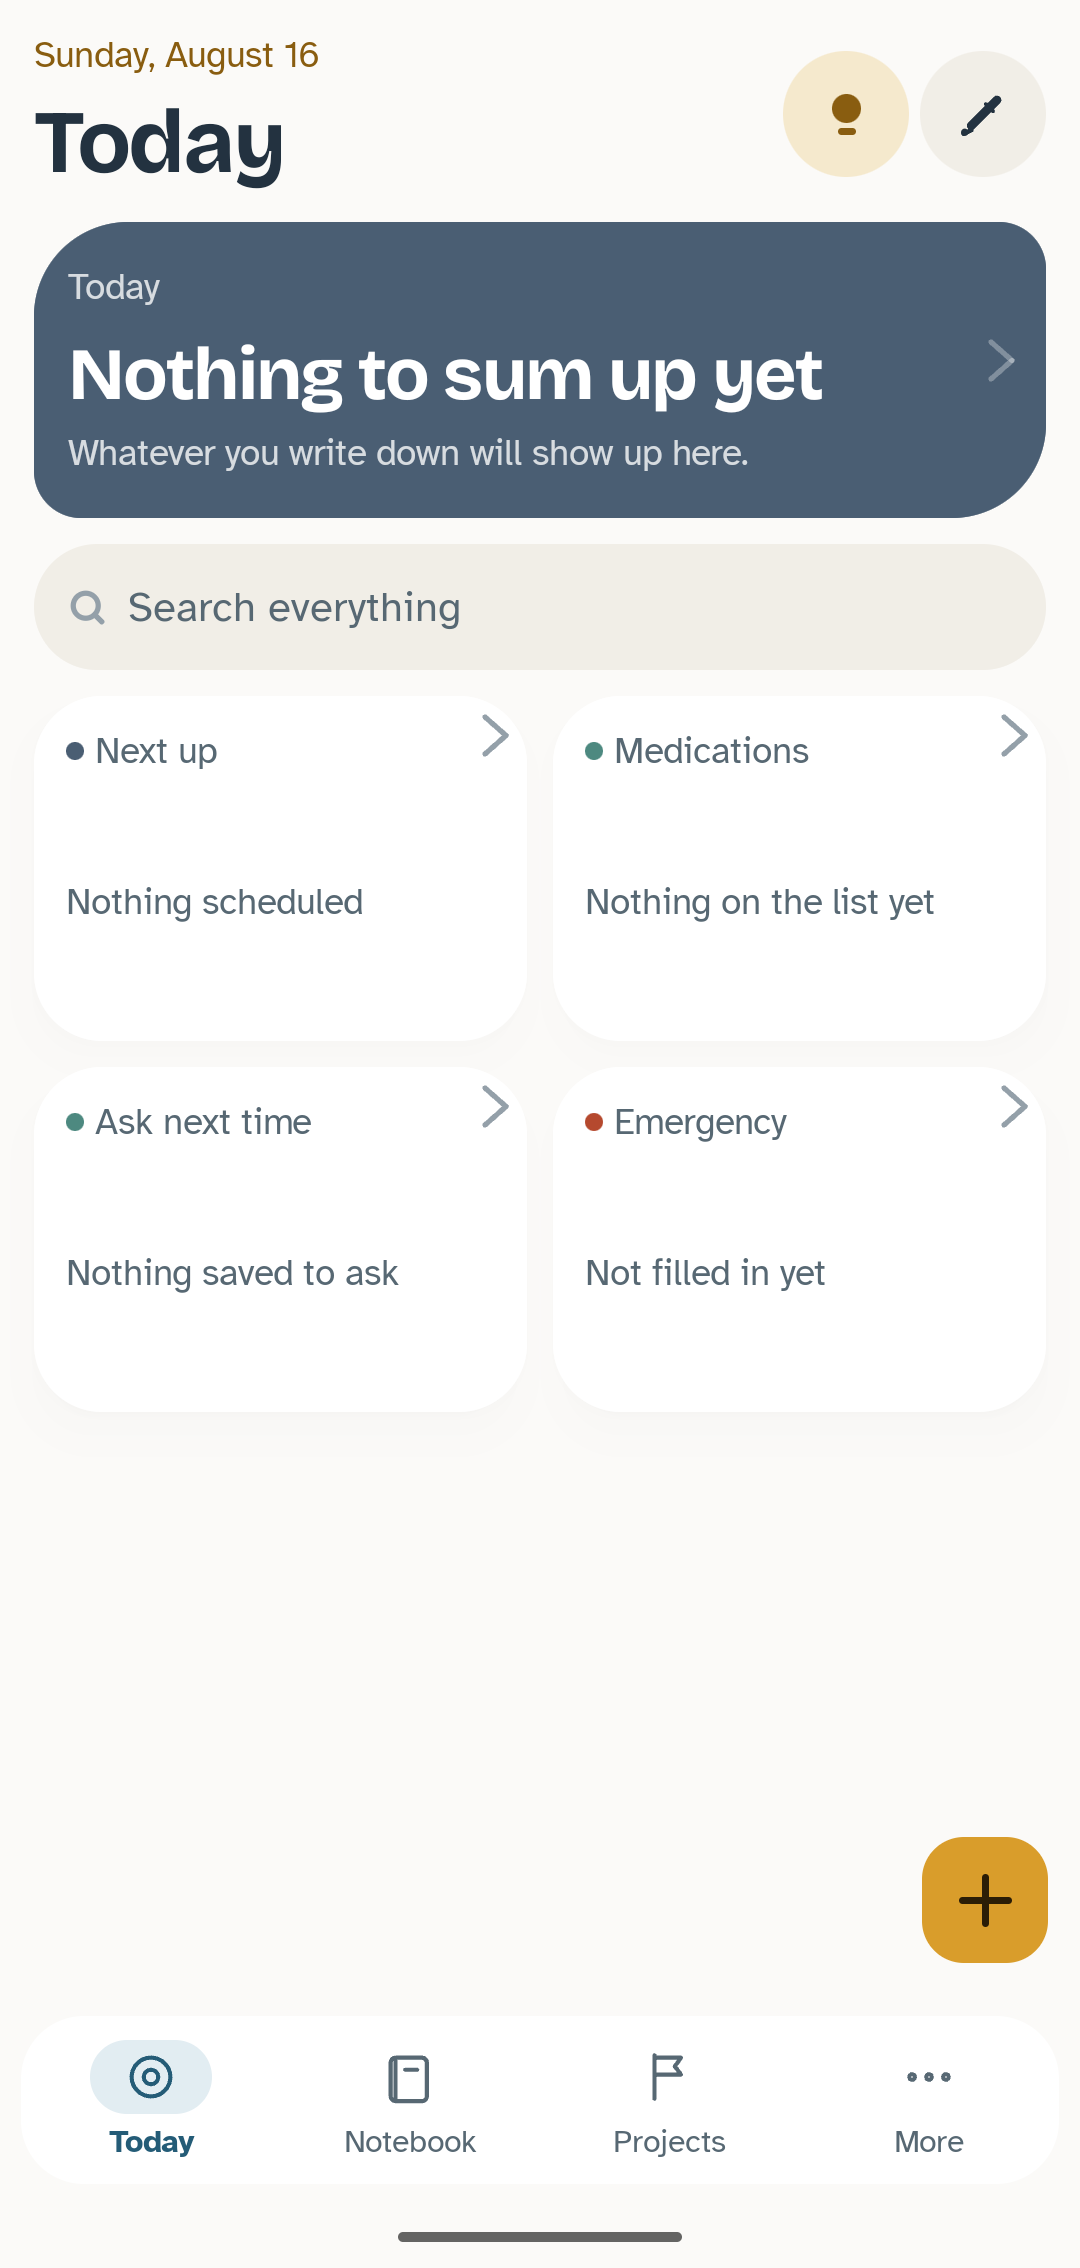
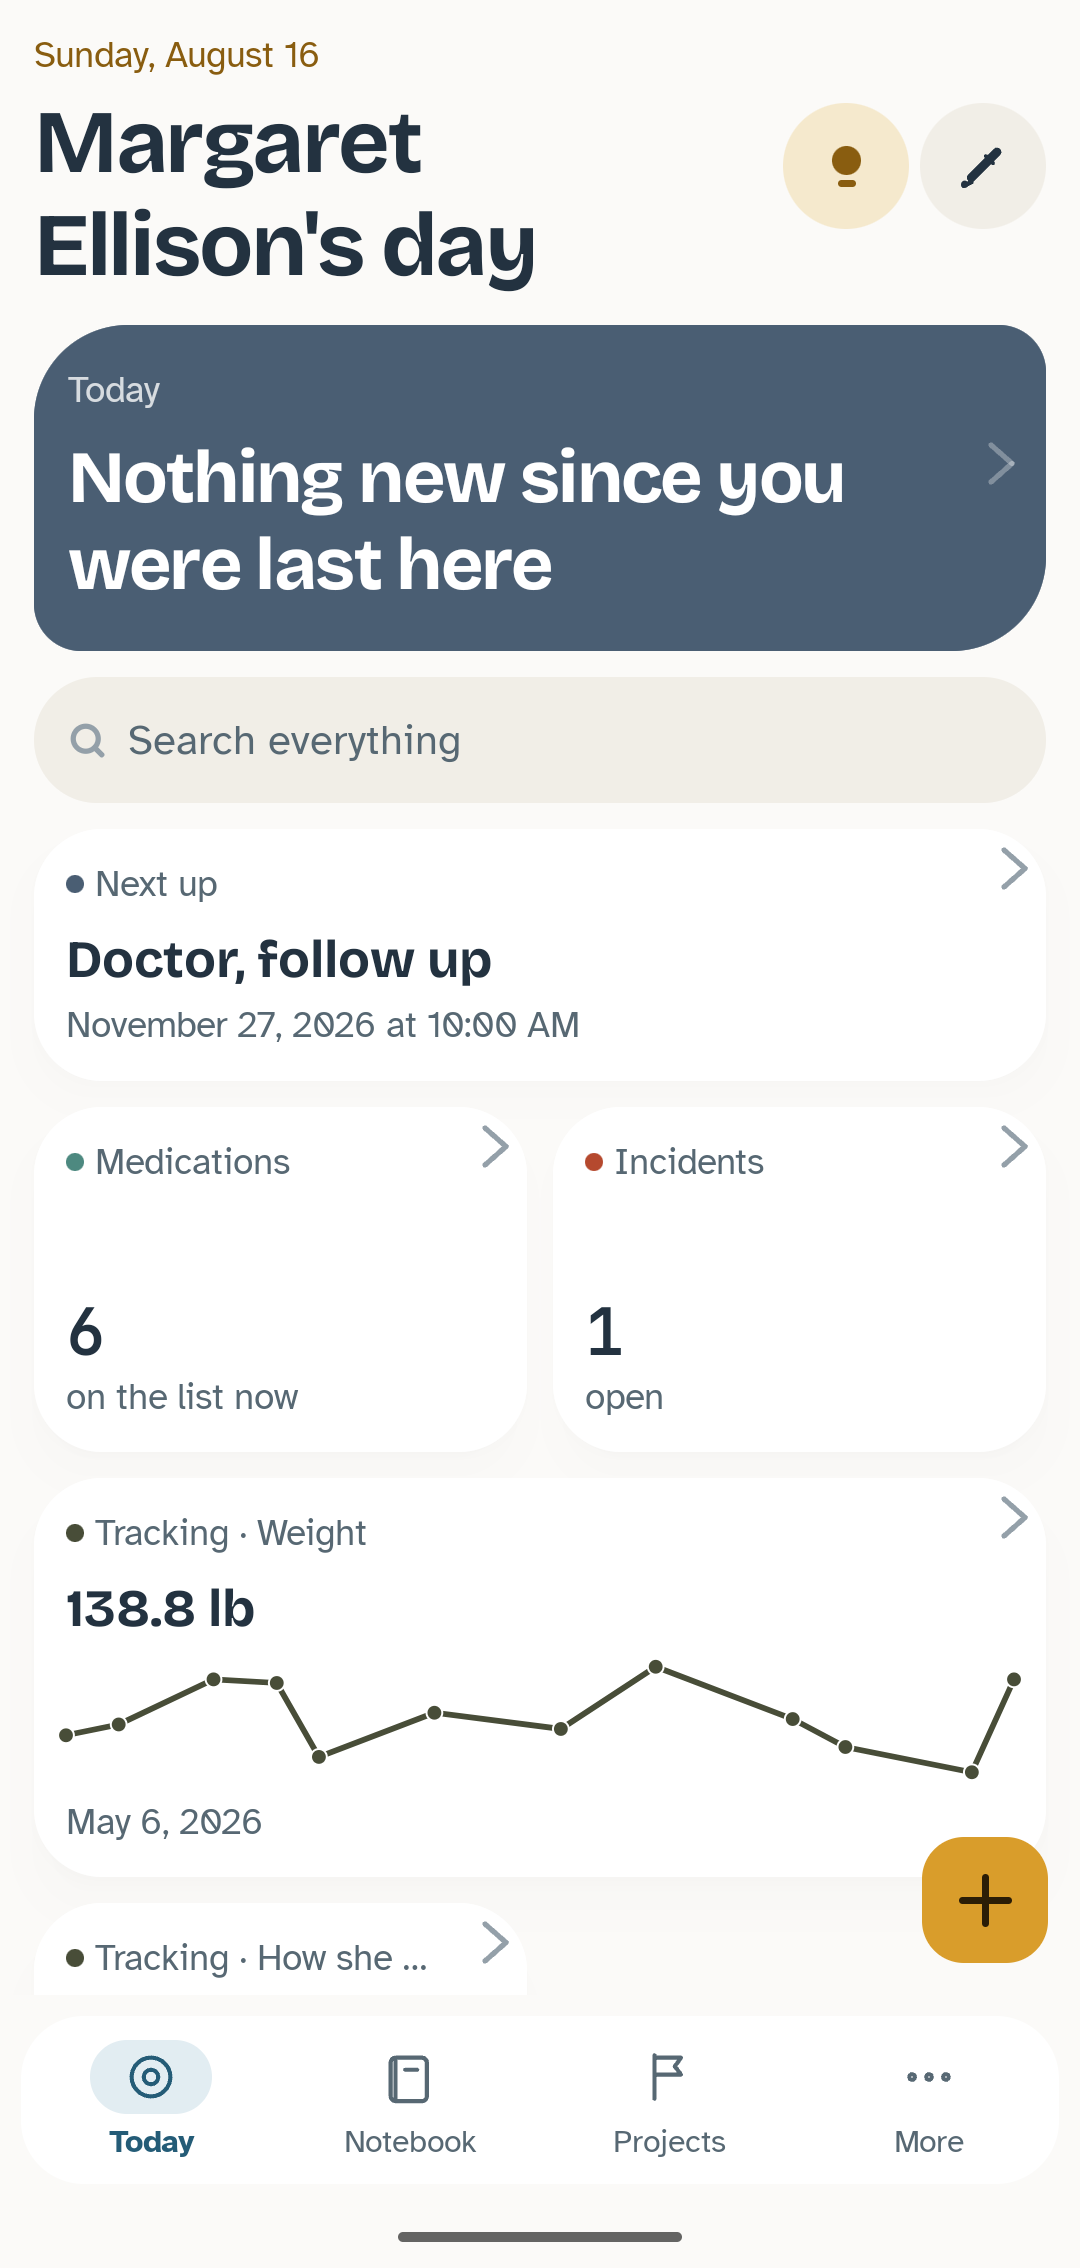
The pencil moves to the corner on five screens, and the seed can reach Restore
D173, continued. The edit control was a quiet button in the body of the
person, bill, document and medication screens, sitting at a different
distance down the page depending on how much the entry happened to hold.
Finding it meant scanning. It is the corner now, on every screen that has
one, and the scaffold carries it so a new detail screen gets it for free.

The screens' own test tags travel with the control. Two testTag calls in
one modifier chain do not compose, the later silently wins, so the tag is
a parameter rather than something a caller can layer on: otherwise the
component's tag would have overridden all five and the tests would have
gone looking for nodes that never appeared.

tools/seed.sh could not finish a restore. The review screen grew a file
summary, two options with three lines each, and a warning paragraph,
which push the confirm button past the bottom of the viewport, and a tap
at a position that is not on screen does nothing and says nothing. Every
run since ended with an empty notebook, and every screenshot taken
afterward was of an app with no data in it, which is how three screens
got looked at tonight while showing their empty states. The app was
checked by hand first: scrolled, tapped, "Restored." The script scrolls
now.

The tab chip leaves the mono face. It was the third typeface on screens
that already carry a display heading and body text. Mono keeps the
figures that line up in a column, which is what it is for.
[…]

diff --git a/android/app/src/main/kotlin/com/kamsiob/healthtrail/ui/components/HeaderAction.kt b/android/app/src/main/kotlin/com/kamsiob/healthtrail/ui/components/HeaderAction.kt
@@ -64,6 +64,16 @@ fun HeaderActions(
     onEdit: (() -> Unit)? = null,
     /** What a reader calls the edit action, in this screen's own words. */
     editLabel: String? = null,
+    /**
+     * The screen's own tag for its edit control.
+     *
+     * **The tag follows the control rather than the position.** Five screens
+     * had their own tag on a button in the body; moving the button to the
+     * corner without bringing the tag would have left five instrumented tests
+     * looking for a node that no longer exists, and a green suite that had
+     * stopped checking the thing it names.
+     */
+    editTag: String? = null,
 ) {
     if (onTips == null && onEdit == null) return
     Row(
@@ -78,7 +88,11 @@ fun HeaderActions(
         // person has to look for it again on every screen. Reserving the empty
         // slot costs one invisible box and makes the corner learnable once.
         if (onTips != null) TipsButton(onOpen = onTips) else HeldSlot()
-        if (onEdit != null) EditAction(onClick = onEdit, label = editLabel) else HeldSlot()
+        if (onEdit != null) {
+            EditAction(onClick = onEdit, label = editLabel, tag = editTag)
+        } else {
+            HeldSlot()
+        }
     }
 }
 
@@ -111,6 +125,16 @@ fun EditAction(
     onClick: () -> Unit,
     modifier: Modifier = Modifier,
     label: String? = null,
+    /**
+     * The screen's own tag, replacing the shared one.
+     *
+     * **A parameter rather than a `testTag` in the caller's modifier.** Two
+     * `testTag` calls in one chain do not compose: the later one silently wins,
+     * so the component's own tag would have overridden every screen's and the
+     * five tests moved here would have gone looking for nodes that never
+     * appeared. One tag, chosen once.
+     */
+    tag: String? = null,
 ) {
     val strings = LocalStrings.current
     val colors = HealthTrail.colors
@@ -137,7 +161,7 @@ fun EditAction(
                 onClick = onClick,
             )
             .semantics { contentDescription = spoken }
-            .testTag(HeaderActionTags.EDIT),
+            .testTag(tag ?: HeaderActionTags.EDIT),
         contentAlignment = Alignment.Center,
     ) {
         PencilMark(tint = colors.ink)

diff --git a/android/app/src/main/kotlin/com/kamsiob/healthtrail/ui/screens/SectionScaffold.kt b/android/app/src/main/kotlin/com/kamsiob/healthtrail/ui/screens/SectionScaffold.kt
@@ -157,6 +157,29 @@ fun SectionScaffold(
      */
     section: Repository.Section? = null,
     /**
+     * Changes what is already written on this screen. D173.
+     *
+     * **The corner, on every screen that has one.** It was a quiet button in
+     * the body of five different detail screens, at five different distances
+     * down the page depending on how much the entry happened to hold, so
+     * finding it meant scanning the screen rather than reaching for a place.
+     * The owner's rule: the same thing is in the same place everywhere.
+     *
+     * Null on a screen that lists rather than holds, where what gets edited is
+     * whatever entry you open rather than the list itself.
+     */
+    onEdit: (() -> Unit)? = null,
+    /**
+     * What a reader announces for the pencil, in this screen's own words.
+     *
+     * **"Edit" alone is not enough for somebody listening.** The mark is
+     * general on purpose; what it changes is not, so a reader hears "edit this
+     * medication" rather than a verb with no object.
+     */
+    editLabel: String? = null,
+    /** The screen's own tag for the pencil, so its tests keep their handle. */
+    editTag: String? = null,
+    /**
      * What the screen calls itself, which is not what the section is called.
      *
      * **The tab says where you are and the heading says what you came for.**
@@ -343,6 +366,9 @@ fun SectionScaffold(
                             } else {
                                 null
                             },
+                            onEdit = onEdit,
+                            editLabel = editLabel,
+                            editTag = editTag,
                         )
                     }
                     Spacer(Modifier.height(Space.s))

diff --git a/android/app/src/main/kotlin/com/kamsiob/healthtrail/ui/components/TodayCard.kt b/android/app/src/main/kotlin/com/kamsiob/healthtrail/ui/components/TodayCard.kt
@@ -373,7 +373,15 @@ fun TodayCard(
                 text = tab,
                 style = type.bodyS,
                 color = colors.ink2,
-                maxLines = 1,
+                // **Two lines rather than an ellipsis.** D173, and rule 11
+                // bans truncation by name. A tracked measure's tab is
+                // "Tracking, " plus whatever the person called the thing they
+                // are tracking, and their own words are exactly what must not
+                // be cut: "Tracking, How she ..." on a card half the screen
+                // wide tells them nothing and looks broken. Two lines holds
+                // every label the fixture has at the largest font scale, and a
+                // card that grows a line is a card that grew a line.
+                maxLines = 2,
                 overflow = TextOverflow.Ellipsis,
                 modifier = Modifier
                     // **The chevron's room, kept clear.** The tab had no

diff --git a/android/app/src/main/kotlin/com/kamsiob/healthtrail/ui/screens/DocumentScreen.kt b/android/app/src/main/kotlin/com/kamsiob/healthtrail/ui/screens/DocumentScreen.kt
@@ -92,6 +92,9 @@ fun DocumentScreen(
     val attachments = remember(context) { Attachments.open(context) }
 
     SectionScaffold(
+        onEdit = onEdit,
+        editTag = OneDocTags.EDIT,
+        editLabel = strings["document.edit"],
         name = OneDocTags.NAME,
         title = strings["notebook.section.documents"],
         heading = Bidi.isolate(document.title),
@@ -253,11 +256,6 @@ fun DocumentScreen(
         // confirmation says so in the same words it says everywhere else.
         item {
             Spacer(Modifier.height(Space.sectionGap))
-            QuietButton(
-                label = strings["document.edit"],
-                onClick = onEdit,
-                modifier = Modifier.testTag(OneDocTags.EDIT),
-            )
             Spacer(Modifier.height(Space.cardGap))
             QuietButton(
                 label = strings["remove.action"],

diff --git a/android/app/src/main/kotlin/com/kamsiob/healthtrail/ui/screens/MedicationScreen.kt b/android/app/src/main/kotlin/com/kamsiob/healthtrail/ui/screens/MedicationScreen.kt
@@ -82,6 +82,9 @@ fun MedicationScreen(
     val colors = HealthTrail.colors
 
     SectionScaffold(
+        onEdit = onEdit,
+        editTag = MedicationTags.EDIT,
+        editLabel = strings["medication.edit"],
         name = MedicationTags.NAME,
         // **The chip says where you are, the heading says what you came for.**
         // This passed the record's own words as the title, which put them in an
@@ -143,11 +146,6 @@ fun MedicationScreen(
                 modifier = Modifier.testTag(MedicationTags.RECORD),
             )
             Spacer(Modifier.height(Space.cardGap))
-            QuietButton(
-                label = strings["medication.edit"],
-                onClick = onEdit,
-                modifier = Modifier.testTag(MedicationTags.EDIT),
-            )
             Spacer(Modifier.height(Space.sectionGap))
         }
 

diff --git a/android/app/src/main/kotlin/com/kamsiob/healthtrail/ui/screens/BillScreen.kt b/android/app/src/main/kotlin/com/kamsiob/healthtrail/ui/screens/BillScreen.kt
@@ -78,6 +78,9 @@ fun BillScreen(
     val colors = HealthTrail.colors
 
     SectionScaffold(
+        onEdit = onEdit,
+        editTag = BillTags.EDIT,
+        editLabel = strings["bill.edit"],
         name = BillTags.NAME,
         title = strings["notebook.section.money"],
         heading = Bidi.isolate(bill.description),
@@ -201,11 +204,6 @@ fun BillScreen(
         // errand, and it opens the confirmation rather than removing anything.
         item {
             Spacer(Modifier.height(Space.sectionGap))
-            QuietButton(
-                label = strings["bill.edit"],
-                onClick = onEdit,
-                modifier = Modifier.testTag(BillTags.EDIT),
-            )
             Spacer(Modifier.height(Space.cardGap))
             QuietButton(
                 label = strings["remove.action"],

diff --git a/android/app/src/main/kotlin/com/kamsiob/healthtrail/ui/screens/PersonScreen.kt b/android/app/src/main/kotlin/com/kamsiob/healthtrail/ui/screens/PersonScreen.kt
@@ -132,6 +132,9 @@ fun PersonScreen(
     val colors = HealthTrail.colors
 
     SectionScaffold(
+        onEdit = onEdit,
+        editTag = PersonTags.EDIT,
+        editLabel = strings["person.edit"],
         name = PersonTags.NAME,
         // **The chip says where you are, the heading says what you came for.**
         // This passed the record's own words as the title, which put them in an
@@ -204,11 +207,6 @@ fun PersonScreen(
                 modifier = Modifier.testTag(PersonTags.CAPTURE),
             )
             Spacer(Modifier.height(Space.cardGap))
-            QuietButton(
-                label = strings["person.edit"],
-                onClick = onEdit,
-                modifier = Modifier.testTag(PersonTags.EDIT),
-            )
             Spacer(Modifier.height(Space.sectionGap))
         }
 

diff --git a/android/app/src/main/kotlin/com/kamsiob/healthtrail/ui/components/TabChip.kt b/android/app/src/main/kotlin/com/kamsiob/healthtrail/ui/components/TabChip.kt
@@ -98,7 +98,14 @@ fun TabChipText(
             }
             .padding(TabChipPadding),
     ) {
-        Text(text = label, style = type.mono, color = hue.ink)
+        // **The body face, not the mono one.** D173. The chip was the third
+        // typeface on screens that already carry a display heading and body
+        // text, and the owner's note was that the fonts do not mix well and
+        // should not be artsy. A typewriter face on an index tab is a costume:
+        // the tab's job is to say which section you are in, quietly, and the
+        // hue and the underline already do the identifying. Mono stays where it
+        // earns its place, which is figures that line up in a column.
+        Text(text = label, style = type.bodyS, color = hue.ink)
     }
 }
 
